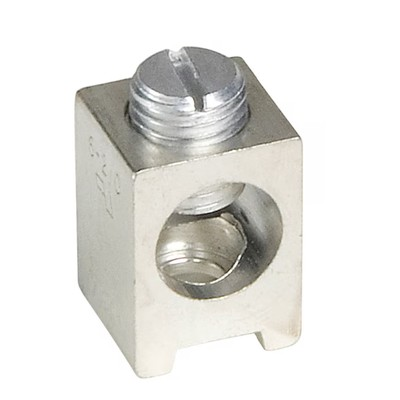
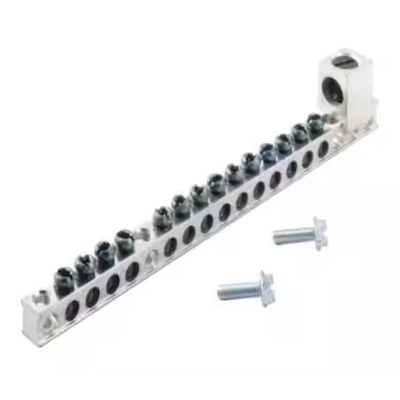
Even out Home spacing between Warehouse and search

diff --git a/code/index.html b/code/index.html
@@ -17,7 +17,7 @@ button,input{touch-action:manipulation}
 html,body{height:100%;background:#0f172a;overflow:hidden}
 body{font-family:-apple-system,system-ui,sans-serif;color:#e2e8f0}
 #app{height:100vh;display:flex;flex-direction:column;position:relative;overflow:hidden}
-.hdr{background:#1a2540;padding:13px 16px;border-bottom:1px solid #2a3a5c;flex-shrink:0}
+.hdr{background:var(--team-hdr-bg,#1a2540);padding:13px 16px;border-bottom:2px solid var(--team-hdr-border,#2a3a5c);flex-shrink:0}
 .hdr-row{display:flex;align-items:center;gap:8px}
 .hdr-title{font-size:16px;font-weight:700;color:#e2e8f0}
 .hdr-sub{font-size:11px;color:#4a5a7a;margin-top:1px}
@@ -270,7 +270,10 @@ function showSyncInfo(){
     <div class="syncdiv"></div>
     <div class="syncrow2"><span>🧾 Weekly reorder list</span><b>${reorder} item${reorder!==1?'s':''}</b></div>
     ${!navigator.onLine?'<div class="syncoff">⚠ Offline — changes will sync on reconnect</div>':''}
-    <button class="btn ghost sm" style="width:100%;margin-top:16px;" onclick="hideSyncInfo()">Close</button>
+    <div class="syncdiv"></div>
+    <div class="syncrow2"><span>🗂 Catalog</span><b>updated ${h(lastRefreshTxt())}</b></div>
+    <button class="btn ghost sm" style="width:100%;margin-top:14px;" onclick="hideSyncInfo();refreshCache();">↻ Refresh Data</button>
+    <button class="btn ghost sm" style="width:100%;margin-top:8px;" onclick="hideSyncInfo()">Close</button>
   </div>`;
   $('syncinfo').style.display='flex';
 }
@@ -376,6 +379,14 @@ function startListeners(){
 // ── ACTIONS ───────────────────────────────────────────────────────────────────
 function selectTeam(t){team=t;localStorage.setItem('g_team',t);allUsage={};scr='loading';render();startListeners();setTimeout(()=>{if(scr==='loading'){scr='nav';render();}},4000);}
 function goHome(){if(_usageRef){_usageRef.off();_usageRef=null;}if(_shopRef){_shopRef.off();_shopRef=null;}allUsage={};shopFlags={};searchQ='';whQ='';popup=null;repDetail=null;whDetail=null;team=null;localStorage.removeItem('g_team');scr='team';render();}
+function resetTestUsage(){
+  if(!isTest())return; // hard guard: only ever the Test team
+  if(!confirm('Reset all logged Trailer & Cases items for the Test team?\n\nThis clears only the Test team — no other team and not the weekly reorder list.'))return;
+  dbWrite('geo-restock/teams/'+team+'/usage', null);
+  allUsage={};
+  toast('Test items reset');
+  render();
+}
 function goStock(src){stockSrc=src;scr='cats';render();}
 function goCat(cat){activeCat=cat;scr='items';render();}
 function goReport(){scr='report';render();}
@@ -427,7 +438,7 @@ function commitWh(){
 function shopRecord(p){return{flagged:true,team:team,ts:Date.now(),name:p.name,shopMin:(p.shopMin==null?null:p.shopMin),vendor:p.vendor||null,vendorPart:(p.vendorPart==null?null:p.vendorPart)};}
 
 // ── RENDER ────────────────────────────────────────────────────────────────────
-function render(){$('app').innerHTML=buildHTML();updSync();}
+function render(){const _t=ti();const _r=document.documentElement.style;_r.setProperty('--team-hdr-bg',_t.bg);_r.setProperty('--team-hdr-border',_t.border);$('app').innerHTML=buildHTML();updSync();}
 
 function buildHTML(){
   const t=ti();
@@ -472,7 +483,11 @@ function buildHTML(){
         <div style="font-size:28px;flex-shrink:0;">🧰</div>
         <div><div class="nav-card-title">Cases Stock</div><div class="nav-card-sub">${cUsed>0?cUsed+' items logged':'Nothing logged yet'}</div></div>
       </button>
-      <div class="search-wrap" style="padding:14px 0 4px;">
+      <button class="nav-card" onclick="goWarehouse()" style="background:#241a33;border:1px solid #3a2a4c;">
+        <div style="font-size:28px;flex-shrink:0;">🏢</div>
+        <div><div class="nav-card-title">Warehouse Items</div><div class="nav-card-sub">${warehouseParts().length} shop-only items · check shop minimums</div></div>
+      </button>
+      <div class="search-wrap" style="padding:0 0 4px;">
         <div class="search-input-wrap">
           <input type="text" id="sq" value="${h(searchQ)}" placeholder="Search trailer parts" autocomplete="off" autocorrect="off" spellcheck="false" oninput="updateSearch(this.value)">
           <button id="sqc" class="srch-clr" onclick="clearSearch()" style="display:${searchQ?'flex':'none'};">✕</button>
@@ -480,12 +495,7 @@ function buildHTML(){
       </div>
       <div id="sr">${buildSearchResults(searchQ)}</div>
       ${rep>0?`<button class="report-link" onclick="goReport()" style="margin-top:12px;">Trailer Restock Report (${rep} item${rep!==1?'s':''}) →</button>`:''}
-      <button class="nav-card" onclick="goWarehouse()" style="background:#241a33;border:1px solid #3a2a4c;margin-top:8px;">
-        <div style="font-size:28px;flex-shrink:0;">🏢</div>
-        <div><div class="nav-card-title">Warehouse Items</div><div class="nav-card-sub">${warehouseParts().length} shop-only items · check shop minimums</div></div>
-      </button>
-      <div style="text-align:center;margin-top:18px;"><button class="btn ghost" onclick="refreshCache()" style="width:auto;display:inline-block;padding:8px 18px;font-size:13px;opacity:.72;">${refreshing?'Refreshing…':'↻ Refresh Data'}</button></div>
-      <div class="refresh-sub">Catalog updated ${lastRefreshTxt()}</div>
+      ${isTest()?`<div style="text-align:center;margin-top:22px;"><button class="btn ghost" onclick="resetTestUsage()" style="width:auto;display:inline-block;padding:7px 16px;font-size:12px;opacity:.8;color:#a78bfa;border-color:#2e2350;">🧪 Reset Test items</button></div>`:''}
       <div style="height:20px;"></div>
     </div></div>
     ${popup?renderPopup():''}`;